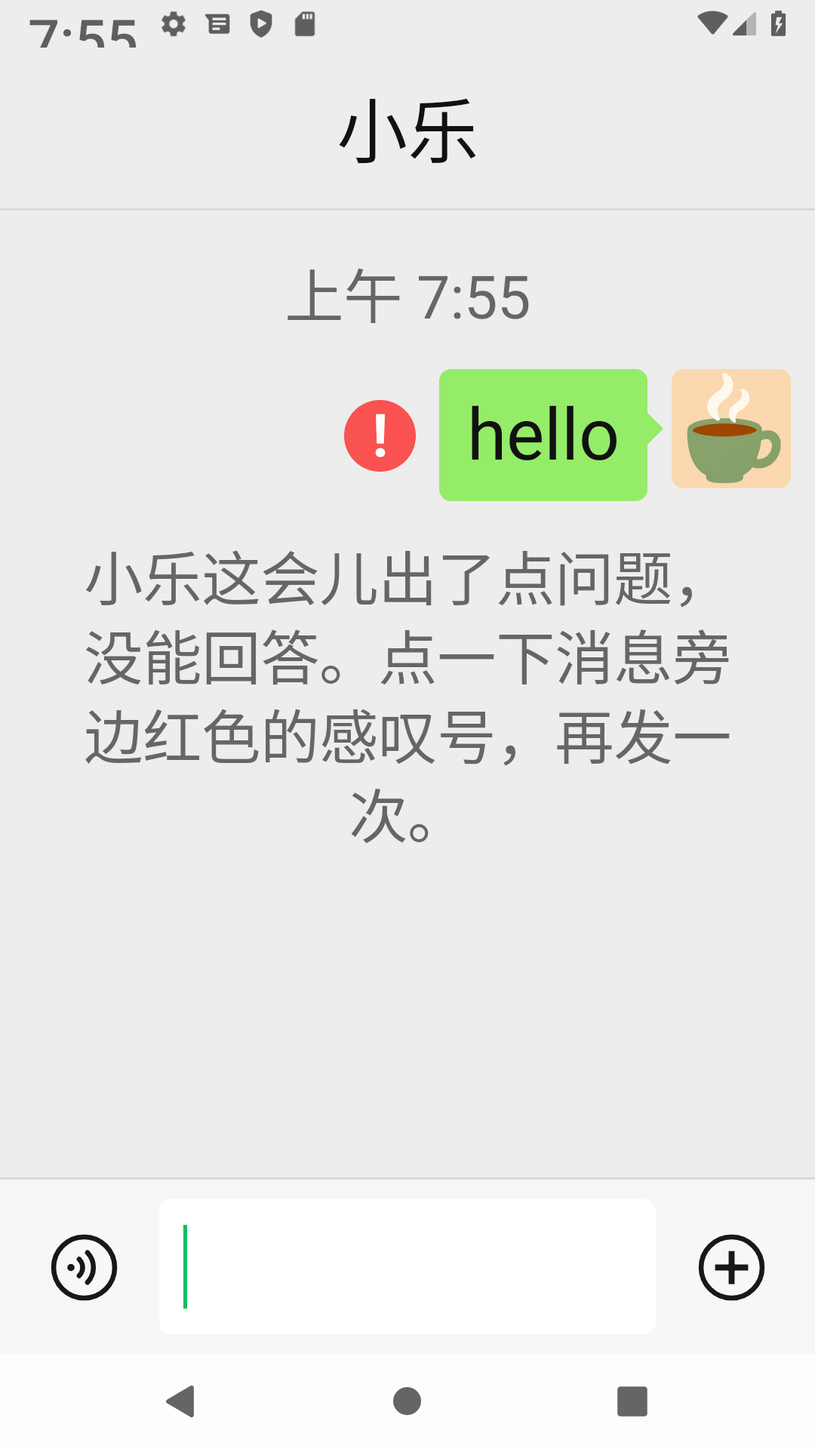
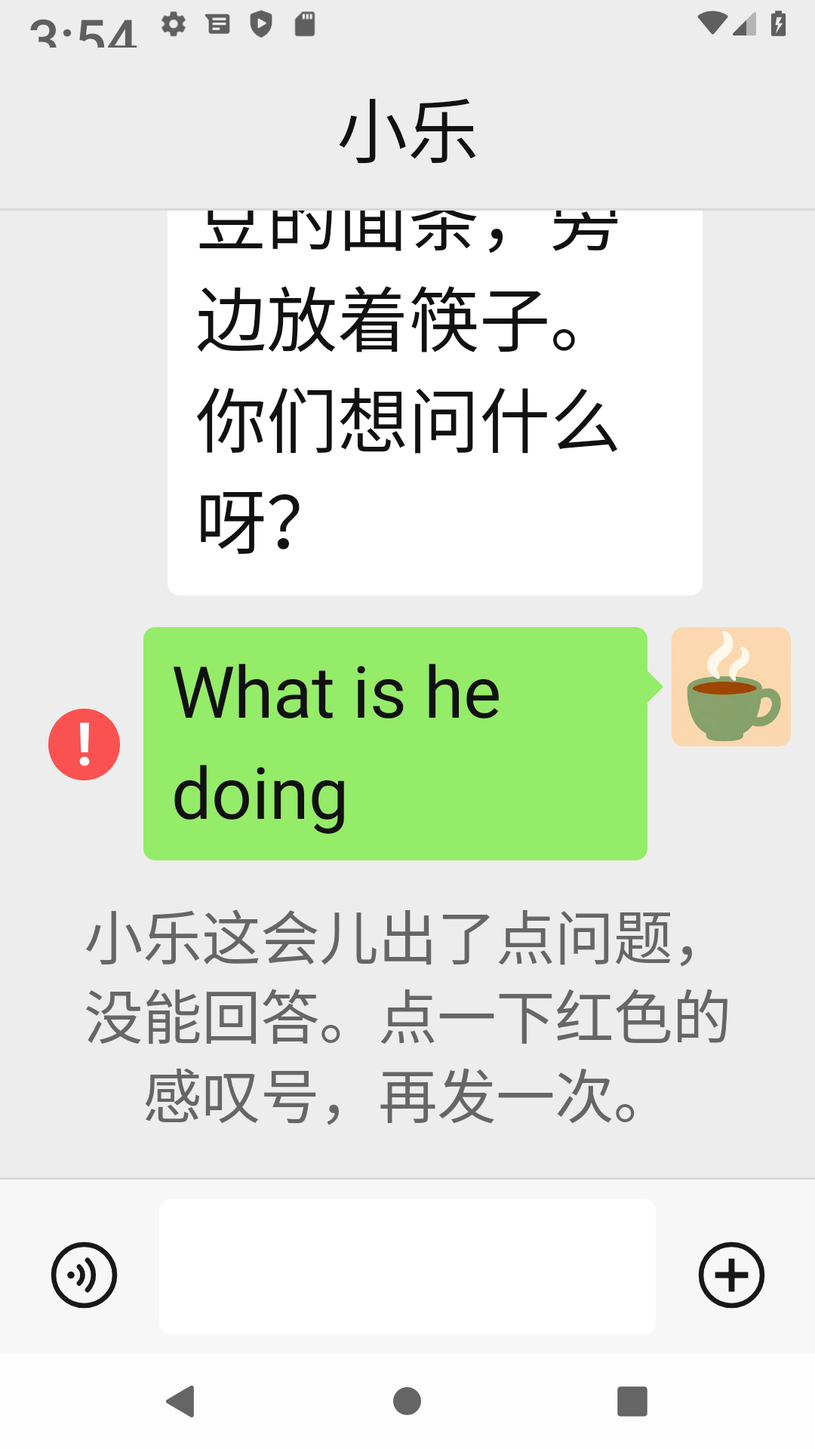
Tap a photo to see it full screen; the failed note ends on a whole line at the largest font
8e: PhotoViewer, the kept JPEG decoded whole on black, ContentScale.Fit, a tap
anywhere or Back closes it and the chat is exactly as it was. 9g: AGENT_FAILED
drops 消息旁边 so at font scale 2.0 it is three whole lines, not a lone 次。.
8j half: the picture bubble says 我发的照片 to TalkBack. Shots at 1.0 and 2.0,
README / INSTALL photo lines, ship plan rows and round 17 log.

diff --git a/app/src/main/java/ai/openonion/whatcha/ChatScreen.kt b/app/src/main/java/ai/openonion/whatcha/ChatScreen.kt
@@ -2,6 +2,8 @@ package ai.openonion.whatcha
 
 import android.Manifest
 import android.content.pm.PackageManager
+import android.graphics.BitmapFactory
+import androidx.activity.compose.BackHandler
 import androidx.activity.compose.rememberLauncherForActivityResult
 import androidx.activity.result.PickVisualMediaRequest
 import androidx.activity.result.contract.ActivityResultContracts
@@ -47,6 +49,7 @@ import androidx.compose.ui.Modifier
 import androidx.compose.ui.draw.clip
 import androidx.compose.ui.draw.scale
 import androidx.compose.ui.graphics.ColorFilter
+import androidx.compose.ui.layout.ContentScale
 import androidx.compose.ui.graphics.asImageBitmap
 import androidx.compose.ui.input.pointer.pointerInput
 import androidx.compose.ui.platform.LocalContext
@@ -86,17 +89,33 @@ fun ChatScreen(vm: ChatViewModel) {
     val status by vm.status.collectAsState()
     val voiceMode by vm.voiceMode.collectAsState()
     val recording by vm.recording.collectAsState()
+    var viewing by remember { mutableStateOf<String?>(null) }
 
-    Box(Modifier.fillMaxSize().background(ChatBackground).safeDrawingPadding().imePadding()) {
-        Column(Modifier.fillMaxSize()) {
-            Header(headerTitle(title, lines, status))
-            statusText(status)?.let { StatusStrip(it) }
-            val hint = emptyHint(title, lines, status)
-            if (hint != null) EmptyHint(hint, Modifier.weight(1f))
-            else Conversation(lines, title, onReplay = vm::replay, onPlay = vm::playVoice, onRetry = vm::retry, modifier = Modifier.weight(1f))
-            if (status != Status.UNPAIRED) Composer(vm, voiceMode, recording)
+    Box(Modifier.fillMaxSize().background(ChatBackground)) {
+        Box(Modifier.fillMaxSize().safeDrawingPadding().imePadding()) {
+            Column(Modifier.fillMaxSize()) {
+                Header(headerTitle(title, lines, status))
+                statusText(status)?.let { StatusStrip(it) }
+                val hint = emptyHint(title, lines, status)
+                if (hint != null) EmptyHint(hint, Modifier.weight(1f))
+                else Conversation(lines, title, onReplay = vm::replay, onPlay = vm::playVoice, onView = { viewing = it }, onRetry = vm::retry, modifier = Modifier.weight(1f))
+                if (status != Status.UNPAIRED) Composer(vm, voiceMode, recording)
+            }
+            if (recording) RecordingCard(Modifier.align(Alignment.Center))
         }
-        if (recording) RecordingCard(Modifier.align(Alignment.Center))
+        // Outside the padded box so the black reaches every edge of the screen, as WeChat's viewer does.
+        viewing?.let { PhotoViewer(it, onClose = { viewing = null }) }
+    }
+}
+
+// WeChat's full-screen picture: the kept JPEG (at most 1280px, so decoded whole) on black, fitted; a tap anywhere
+// or Back brings the chat back exactly as it was. No zoom, no buttons: WeChat has none for closing either.
+@Composable
+private fun PhotoViewer(path: String, onClose: () -> Unit) {
+    BackHandler { onClose() }
+    val bitmap = remember(path) { BitmapFactory.decodeFile(path).asImageBitmap() }
+    Box(Modifier.fillMaxSize().background(Color.Black).clickable { onClose() }) {
+        Image(bitmap, contentDescription = "我发的照片，点一下关上", modifier = Modifier.fillMaxSize(), contentScale = ContentScale.Fit)
     }
 }
 
@@ -170,7 +189,7 @@ internal fun statusText(status: Status): String? = when (status) {
 }
 
 @Composable
-private fun Conversation(lines: List<Line>, agentName: String, onReplay: (String) -> Unit, onPlay: (String) -> Unit, onRetry: (Line) -> Unit, modifier: Modifier) {
+private fun Conversation(lines: List<Line>, agentName: String, onReplay: (String) -> Unit, onPlay: (String) -> Unit, onView: (String) -> Unit, onRetry: (Line) -> Unit, modifier: Modifier) {
     // Laid out from the bottom, as WeChat is: the end of the latest line stays in view when it is long,
     // when a new one arrives, and when the keyboard opens and the list gets shorter. A new line jumps the
     // list back to the bottom however far up the parent has scrolled: their own send, the reply they are
@@ -186,7 +205,7 @@ private fun Conversation(lines: List<Line>, agentName: String, onReplay: (String
                 if (row.showTime) TimeLabel(row.line.at)
                 when {
                     row.line.voice != null -> Bubble(row.line, agentName, onTap = { onPlay(row.line.voice) }, onRetry = { onRetry(row.line) }) { VoiceContent(row.line) }
-                    row.line.photo != null -> Bubble(row.line, agentName, onTap = null, onRetry = { onRetry(row.line) }) { PhotoContent(row.line.photo) }
+                    row.line.photo != null -> Bubble(row.line, agentName, onTap = { onView(row.line.photo) }, onRetry = { onRetry(row.line) }) { PhotoContent(row.line.photo) }
                     else -> Bubble(row.line, agentName, onTap = { onReplay(row.line.text) }.takeIf { !row.line.fromParent }, onRetry = { onRetry(row.line) }) {
                         Text(row.line.text, style = Body)
                     }
@@ -296,7 +315,7 @@ private fun RedBang() {
 @Composable
 private fun PhotoContent(path: String) {
     val bitmap = remember(path) { thumbnail(path).asImageBitmap() }
-    Image(bitmap, contentDescription = "照片", modifier = Modifier.sizeIn(maxWidth = 200.dp, maxHeight = 200.dp).clip(RoundedCornerShape(6.dp)))
+    Image(bitmap, contentDescription = "我发的照片", modifier = Modifier.sizeIn(maxWidth = 200.dp, maxHeight = 200.dp).clip(RoundedCornerShape(6.dp)))
 }
 
 // WeChat's voice bubble: its length in seconds, and a sound wave pointing at the speaker.

diff --git a/app/src/test/java/ai/openonion/whatcha/AgentErrorTest.kt b/app/src/test/java/ai/openonion/whatcha/AgentErrorTest.kt
@@ -25,6 +25,14 @@ class AgentErrorTest {
         assertEquals(answered, answered.failOldest("boom"))
     }
 
+    // 11 characters a line at the largest font (9g, measured at 2.0): 31 characters end on a whole 9-character line,
+    // the 35 with 「消息旁边」 left a lone 「次。」 on a fourth line.
+    @Test
+    fun theFailedNoteEndsOnAWholeLineAtTheLargestFont() {
+        assertEquals(31, AGENT_FAILED.length)
+        assertEquals(false, AGENT_FAILED.contains("消息旁边"))
+    }
+
     @Test
     fun anOldHistorysStoredNoteIsDroppedOnLoad() {
         val saved = """[{"fromParent":true,"text":"在干嘛","at":0,"delivery":"FAILED"},""" +

diff --git a/app/src/main/java/ai/openonion/whatcha/Conversation.kt b/app/src/main/java/ai/openonion/whatcha/Conversation.kt
@@ -35,7 +35,7 @@ fun List<Line>.staleVoices(now: Long): List<String> =
     filter { it.voice != null && it.delivery == Delivery.DONE && it.at < now - VOICE_KEPT_MILLIS }.map { it.voice!! }
 
 // Plain words, no error code, and no promise the app cannot keep.
-const val AGENT_FAILED = "小乐这会儿出了点问题，没能回答。点一下消息旁边红色的感叹号，再发一次。"
+const val AGENT_FAILED = "小乐这会儿出了点问题，没能回答。点一下红色的感叹号，再发一次。"
 
 /**
  * The one message to send now, or null. The host takes one INPUT per turn: a second one while a turn runs is

diff --git a/SHIP-PLAN.md b/SHIP-PLAN.md
@@ -59,12 +59,12 @@ G4 and G5 need Aaron's hands (his identity, his parents' phone). Everything else
 | 8b | Photo from the camera: CAMERA permission, FileProvider, 拍照 beside 相册 after the ⊕, Huawei camera-permission dialog wording to confirm on the phone (add to the Saturday checklist) | — | open |
 | 8c | Every `-1.3` shot since round 3 shows body text 8% larger, not 30%: Compose (BOM 2026.06) converts `sp` through Android 14's non-linear font tables on every API level, so at `font_scale 1.3` 24sp becomes 26sp and 18sp about 22sp, on this API 28 emulator and on the Huawei alike. Measured: 按住 说话 glyphs 22.1dp at 1.0 → 24.0dp in `design-voice-1.3.png` (linear 1.3 would be 28.7), title 21.7 → 24.0, the reply bubble's line pitch 34.4 → 37.6dp (`photo-reply.png` vs `photo-composer-1.3.png`), identical ratio in every -1.3 shot. So 6j's 「24sp → 31sp」 was never on screen, and the composer, the status line (6e) and the recording card (6f) have only been seen with body text at 26sp. Fix: re-shoot the -1.3 set at `settings put system font_scale 2.0` (the largest the tables map, 24sp → ~36sp, close to Huawei 超大) and name the files `-2.0`; Saturday checklist: Huawei at its largest 字体, look at the composer, 「还没有连上」 and the recording card | G6 | done round 9: `settings put system font_scale 2.0`, measured with PIL: 按住 说话 glyphs 22.1dp (1.0) → 24.0 (1.3) → 32.8dp (2.0), width 99.8 → 149.0dp, the same 1.48 ratio in both axes, so 24sp renders at ~35.6sp (Compose caps its tables at 2.0; Huawei 超大 is the phone check); 发送 glyphs 21.7 → 32.8dp; 松开 发送 24.0 → 32.8dp. Fifteen `-2.0` shots in `screenshots/`. Two things broke and were fixed (6e, 9a); everything else in 8g, and the Saturday checklist item 2 extended |
 | 8d | The parent's tail was painted on a photo: a solid #95EC69 triangle 7.6×15.2dp at x 858–877px, 21.7dp below the top of a beige photo ([214,191,160], 1.2:1 against the green), so it read as a green chip stuck to the picture, not as a bubble's tail (`photo-picked.png`, measured). WeChat masks the picture itself with the bubble shape, so its tail shows photo. Fixed (one line, e4f4c85): `Tail` colour `Color.Transparent` when `line.photo != null`, the 12dp to the avatar unchanged; not re-shot (needs the host and an album photo). The WeChat mask (clip the `Image` with a bubble+tail shape) stays open, cosmetic | G6 | done round 8; mask parked |
-| 8e | Tapping a photo does nothing: `Conversation` passes `onTap = null` for photo lines. On WeChat every parent taps a picture to see it full screen, and at 199.8×149.9dp (measured, `photo-picked.png`) the dish is small for 65-year-old eyes. Fix: a full-screen viewer (black page, the kept JPEG with `ContentScale.Fit`, tap anywhere to close) and `onTap = { show(path) }`; not one line | G6 | open |
+| 8e | Tapping a photo does nothing: `Conversation` passes `onTap = null` for photo lines. On WeChat every parent taps a picture to see it full screen, and at 199.8×149.9dp (measured, `photo-picked.png`) the dish is small for 65-year-old eyes. Fix: a full-screen viewer (black page, the kept JPEG with `ContentScale.Fit`, tap anywhere to close) and `onTap = { show(path) }`; not one line | G6 | done round 17: `PhotoViewer` (full decode of the kept ≤1280px JPEG, black `Box` outside the padded one so it reaches the status-bar edge, `clickable` and `BackHandler` both close it), photo lines get `onTap = { viewing = path }`. Measured: `photo-viewer-1.0.png` the 1600×1200 test picture fitted to 1080×810px at y 555–1364, every row above (555, status bar included) and below (429, to the nav bar at 1794) pure black, no chrome; `photo-viewer-2.0.png` pixel-identical to it below the status bar (the picture does not scale with the font); `photo-viewer-closed-1.0.png` md5-identical below the status bar to the frame before the tap (`dc0a3c00…10a2` both), the same after Back; Back then leaves the app (focus `MainActivity` → `NexusLauncherActivity`). Opened while the spinner was on (`r17-viewer-while-sending.png`, scratchpad) and on a queued line with the host down (`r17-queued-viewer-2.0.png`, identical to the 2.0 viewer), Back put the queued bubble back at the same y. No zoom, no × (non-goals) |
 | 8f | ⊕ checked and fine (measured): ring 33.1dp outside (30.8dp + 2.3dp stroke), plus bars 2.7dp, #181818 at 16.6:1 on #F7F7F7; the same bbox (x 926–1012, y 1646–1732px) in text mode, voice mode and the 1.3 shots, so it never moves; centre 42.2dp from the right edge, the mirror of the voice switch at 42.2dp from the left; ring 22dp from the text box (8dp spacer + 14.5dp inside the 60dp box). WeChat's (eyeballed): ~28dp, #000 at 80% (#333, 11.8:1), ~8dp from its box. Ours is 5dp bigger, darker, a touch heavier and farther from the box, exactly like the app's own voice/keyboard icon (same 33.1dp, 2.3dp), which is right for elders | G6 | — |
 | 8g | Composer at the emulator's 1.3 (measured): text box 60.1dp, bar 76.9dp, 发送 89×60dp, 按住 说话 109dp wide in a 250dp bar, nothing wraps, but that is at 26sp (8c). By arithmetic at the tables' 2.0 (24sp → ~36sp, line 34 → ~44sp): box 70dp, 发送 ~72dp inside its 88dp minimum, 按住 说话 ~170dp inside 250dp, still nothing wraps; to be seen in the 8c re-shoot | G6 | done round 9, measured at 2.0: text box 68.2dp tall (60.2 at 1.0), 发送 88×60dp with its glyphs 9.9/9.5dp from the sides and 15.2/12.2dp from top/bottom, 12.2dp to the screen edge (`design-typed-2.0.png`); 按住 说话 149dp wide in a 250.7×60.2dp bar, voice switch and ⊕ 33.1dp icons at the same pixels as 1.0 (`design-voice-2.0.png`); recording card still 200×200dp, 松开 发送 25dp from its sides (`design-recording-2.0.png`); hint three lines ending 「，」「，」「行」 (`design-empty-2.0.png`); reply bubbles 270dp, avatars 60.2dp, photo 200.0×150.1dp as at 1.0, 「3"」 whole in a 131.8×66.7dp voice bubble (`design-chat-2.0.png`, `-text-`, `-voice-`); keyboard open, the latest line above it (`design-keyboard-2.0.png`); failed note four lines, last 「次。」 (`sending-failed-2.0.png`). A five-line draft grows the box to five lines and pushes 发送 up with it, box still a box (`design-typed-long-2.0.png`), same as WeChat. Nothing wraps mid-word, nothing clips, every target 60dp |
 | 8h | Green fringe at a photo's corners (measured): the bubble `Box` still paints #95EC69 under a photo and the anti-aliased 6dp corner lets it through, pixel (402,337) in `photo-picked.png` is [209,221,181], 1–2px, invisible to the eye. Fix: no background when `line.photo != null`. Cosmetic | G6 | parked |
 | 8i | No border on a photo, as WeChat: this picture's edge is [214,191,160] on #EDEDED (measured); a photo with white edges (a sheet of paper, a screenshot) is 1.15:1 against the page and its edge vanishes, which WeChat accepts too. Keep as WeChat | G6 | — |
-| 8j | Words for TalkBack: ⊕ says 「发照片」, right (WeChat's 「更多功能按钮」 would promise things this button does not do); the bubble says only 「照片」, so a listener cannot tell whose; the ⊕ box and the voice switch have no `role = Role.Button` while the red mark got one in 6s. Fix: `contentDescription = "我发的照片"` in `PhotoContent`; `.semantics { role = Role.Button }` on both composer boxes. Low | G6 | open |
+| 8j | Words for TalkBack: ⊕ says 「发照片」, right (WeChat's 「更多功能按钮」 would promise things this button does not do); the bubble says only 「照片」, so a listener cannot tell whose; the ⊕ box and the voice switch have no `role = Role.Button` while the red mark got one in 6s. Fix: `contentDescription = "我发的照片"` in `PhotoContent`; `.semantics { role = Role.Button }` on both composer boxes. Low | G6 | half done round 17: `PhotoContent` says 「我发的照片」, the viewer 「我发的照片，点一下关上」 (code, not heard: no TalkBack on the emulator). The two `Role.Button` lines go with 9f as 17a |
 | 8k | Spinner and avatar on a photo line checked (measured, `photo-picked.png`): spinner 20dp from the photo's left edge and centred on it (both at y 594.5px), avatar top = photo top (0dp), corners ≈6dp (first opaque pixel 10px in on the top row), photo 200dp wide at 4:3 with no green bars, so the 6q/6r geometry holds for a 150dp-tall bubble | G6 | — |
 | 9a | The red ! was a white bar at 2.0: the 18sp glyph scaled to ~27sp and filled the 24dp circle, stem and dot merged (`sending-failed-2.0-before-mark.png`, measured: one white row group where 1.0 has two with a 5px gap). Fixed: `RedBang()` shared by the delivery mark and the status strip, glyph `18.dp.toSp()` so it stays with the circle; after: glyph 12.6dp tall, 5px gap, identical at 1.0 and 2.0 (`sending-failed-2.0.png`). No test: a size, no logic | G6 | done round 9 |
 | 6u | After 6r a one-line parent bubble sits ~4dp below the avatar's top (bubble and avatar share a centre); WeChat aligns the bubble top with the avatar top. Cosmetic | G6 | parked |
@@ -73,7 +73,7 @@ G4 and G5 need Aaron's hands (his identity, his parents' phone). Everything else
 | 9d | Measured and fine in the strip: text #111111 on #FDECEC 16.5:1; one-line strip 60.2dp (the 60dp minimum, WeChat ~40dp, not tappable so the target rule does not apply); ! circle 24.0dp, glyph 12.6dp (stem 8.4, dot 2.3, 5px between), identical at 1.0 and 2.0 and identical in the strip and the delivery mark (`design-unpaired-1.0.png`, `design-unpaired-2.0.png`, `design-offline-2.0.png`, `design-connecting-1.0.png`, `sending-failed-2.0.png`, `sending-failed.png`; the before shot has one white group, so 9a holds); 24dp side padding both sides; circle to text 13.0dp (WeChat ~8dp, eyeballed; the 12dp spacer plus the glyph's side bearing); circle centred on the strip, 1.3dp below the text block's centre; line pitch 33.9dp at 1.0, 51dp at 2.0; text top/bottom inset 20/17.5dp at 1.0, 23.6/21dp at 2.0; no divider under the strip, as WeChat. `reverseLayout = true` keeps the latest bubble in view when the strip appears: in `design-offline-2.0.png` the last reply's bottom text row is at 1451px and the composer starts at 1560px | G6 | — |
 | 9e | The ! does not grow with the font: 12.6dp beside 22.5dp glyphs at 1.0 (56%), beside 32.8dp glyphs at 2.0 (38%, measured), so at the Huawei's largest font the strip's ! and the delivery mark are the smallest things on the screen; the mark the note calls 「红色的感叹号」 is a 24dp circle beside a 68dp bubble (`sending-failed-2.0.png`). WeChat's strip ! is about the height of its text (eyeballed). Fix: in `RedBang` size the circle `24.sp.toDp()` and the glyph `18.sp.toDp()` instead of dp, so both scale together (36dp circle at 2.0, still inside the 60dp box and 24dp at 1.0 as now) | G6 | done round 10: `RedBang` circle `24.sp.toDp()`, glyph `18.sp`. Measured: at 1.0 circle 24.0dp, glyph 12.6dp (stem 8.4, dot 2.3, 5px gap), as before; at 2.0 circle 36.2dp, glyph 21.3dp (stem 14.5, dot 4.2, 7px gap), two white groups so still a 感叹号, beside 33dp strip glyphs and the 68dp bubble, inside the 60dp mark box (`sending-failed-2.0.png` re-shot, `design-offline-2.0.png`, `design-unpaired-2.0.png`) |
 | 9f | The strip's ! is the same glyph as the tap-to-resend mark, and the failed note says 「点一下消息旁边红色的感叹号」: a parent hunting for a red ! finds the strip's first and taps it, and nothing happens. WeChat uses the same icon in both places, accepted. TalkBack reads the strip as 「感叹号 暂时联系不上…」: fix `Modifier.semantics(mergeDescendants = true)` on the strip `Row` with the ! `clearAndSetSemantics {}`. Low | G6 | open |
-| 9g | The failed note at 2.0 wraps to a lone 「次。」 on its fourth line, 38.5dp wide under three lines of 306–325dp (measured, `sending-failed-2.0.png`); at 1.0 it is two full lines (320.8/291.4dp, `design-connecting-1.0.png`). Centred text makes the orphan look like a typo. Fix: shorten `AGENT_FAILED` by dropping 「消息旁边」 (the mark is beside the bubble either way) so the last line is whole; `AgentErrorTest` compares the constant, no change. Low | G6 | open |
+| 9g | The failed note at 2.0 wraps to a lone 「次。」 on its fourth line, 38.5dp wide under three lines of 306–325dp (measured, `sending-failed-2.0.png`); at 1.0 it is two full lines (320.8/291.4dp, `design-connecting-1.0.png`). Centred text makes the orphan look like a typo. Fix: shorten `AGENT_FAILED` by dropping 「消息旁边」 (the mark is beside the bubble either way) so the last line is whole; `AgentErrorTest` compares the constant, no change. Low | G6 | done round 17: `AGENT_FAILED` 31 characters, 「消息旁边」 dropped. Red first: new `AgentErrorTest.theFailedNoteEndsOnAWholeLineAtTheLargestFont` (`expected:<31> but was:<35>`), green with the constant. Re-shot at 2.0 with the nonexistent-model trick (`sending-failed-2.0.png`, measured): three lines 305.1 / 323.4 / 246.1dp, 11 / 11 / 9 characters, the last line 「感叹号，再发一次。」 whole, no fourth line; the red ! 36.2×36.2dp, as 10b. The 29-character fallback was not needed |
 | 10a | Title 「小乐(连接中…)」 at 2.0 is one line, 225.5dp of ink in the 363dp between the 24dp paddings, 92.6/93.3dp margins (measured, `design-launch-2.0.png`); at 1.0 150.9dp (`design-launch-1.0.png`). Parens are half-width ASCII, 9.1/9.5dp wide at 2.0 beside 33dp CJK glyphs, as WeChat's 「微信(连接中…)」 (from memory: WeChat Android uses half-width parens; whether its dots are one 「…」 or three periods I am not sure, and on screen the two look the same). The 「…」 renders as three 5.0dp dots on a 7.7dp pitch at 2.0 (3.0dp on 5.3dp at 1.0): small, but it is punctuation after 连接中, which carries the meaning at the full 36sp. Headroom: ~36dp per extra CJK character, so a name up to 5 characters still fits one line at 2.0; `Header` has no `maxLines`, a 6-character name would wrap to two lines (not seen; the skill's name is 小乐). 「对方正在输入...」 uses three periods where 连接中 uses 「…」; at 24sp the dots are 3dp either way, not worth a row | G6 | — |
 | 10b | The 36dp ! at 2.0 (measured, `sending-failed-2.0.png`): circle 36.2dp, centre 503.0px where the 60dp box's centre is 503.2px (the box abuts the bubble, no spacer), 0.1dp off; vertically 0.4dp from the bubble's centre; glyph 21.3dp in two white groups 7px apart; gap circle→bubble 11.8dp (18.3dp at 1.0, `sending-failed.png`, where the circle sits 4.2dp below the bubble centre, invisible). WeChat's mark is ~20dp and does not grow with its in-app font setting (eyeballed from memory), so ours is heavier in absolute dp; in proportion it is the same thing at both scales, 46% of the 51.8dp bubble at 1.0 and 54% of the 66.7dp bubble at 2.0, and it is the one object the failed note sends the parent to find. Keep | G6 | — |
 | 10c | Offline strip 94.1dp at 1.0 for two short lines (measured): soft wrap cannot give one line. Glyph pitch 24.1dp at 1.0 (segment starts 85.3, 109.3, 134.5, 157.7, 181.7, 205.7dp), 35.9dp at 2.0; text column 327dp at 1.0, 314.8dp at 2.0 beside the 36dp !. 「暂时联系不上，稍后会自己重试」 is 14 characters = 337dp > 327 at 1.0, so a soft wrap would leave 「试」 alone on line two; at 2.0 it breaks after the ninth character, 「…稍后会自」/「己重试」, mid-word (Android breaks between any two CJK characters). 「还没连上，让孩子重发安装包」 (13 = 313dp) would fit one line at 1.0, but at 2.0 the ninth character does not (323 > 314.8): 「…让孩子重」/「发安装包」. One string serves both scales, so the hard break at the comma is right at both; the 94dp is the price of two clauses and is only on screen while the host is down. Line pitch 33.9dp, inset 20/17.5dp, ! 13.0–13.7dp from the text at both scales, centred on the strip within 1.3dp of the text block: unchanged from 9d | G6 | — |
@@ -111,6 +111,8 @@ G4 and G5 need Aaron's hands (his identity, his parents' phone). Everything else
 | 16b | The first reply at 2.0, measured on `scroll-reply-2.0.png` (2.625 px/dp): bubble 222–930px (270.1dp) from y 279 to 1506, nine glyph rows at a 134px (51.0dp) pitch, every row 85–88px tall including the first (294–382), so 叔叔阿姨好， is whole and readable; its top is 5.7dp below the list edge where every other bubble has 23.6dp (`trap`, `followup`, `r16-q1-revealed`), so 17.9dp of white padding and the two top corners are off the glass, no character. Avatar 60.2dp wide at x 32–189, its top 1.1dp below the bubble top on the trap and follow-up shots, so here 18dp of it is cut too: the antenna's ball (the top 11dp of the figure in `trap-reply-2.0.png`) gone, both eyes and the smile on the glass. Bubble bottom to the composer bar 20.6dp, to the text box 31.2dp. What a parent sees (eyeballed): a white bubble that meets the edge square instead of rounded and a robot face with no antenna, the same picture WeChat gives when a long message has just landed, which says scroll up, not broken; nothing the parent wants is up there. The 24dp top inset cannot help: `ChatScreen.kt:180` is `reverseLayout = true` scrolled to item 0, so top `contentPadding` sits at the oldest end and a newest item taller than the 488dp viewport is anchored on its bottom whatever is above it. A 48 ceiling buys 18dp of padding no word lives in and costs two characters of a body the model already overshoots (never more than 34 asked, 33 given, max 53 and 54 over two runs). Recommend nothing: keep 50 and the ≤ 54 gate, the first-session-only cost is one cut corner once a month (14e). One wording in `SKILL.md:107` is now untrue, 「the whole bubble on one screen」: nine lines put the text on one screen, the bubble's top 18dp not; say 「the whole text on one screen」 when the skill is next touched, not a run of its own | G6 | — |
 | 16c | Trap and follow-up at 2.0 (`trap-reply-2.0.png`, `followup-reply-2.0.png`, measured): reply bubbles 270.1dp wide both, 281.5dp and 332.6dp tall (5 and 6 rows at 134px pitch), text 15.2dp from the bubble's left, 42dp slack on the right, 23.6dp top and 21.0dp bottom inside; avatar 60.2dp square, top 1.1dp (3px) below the bubble top on both, so 6u's note holds for the parent side only. Parent bubbles 262.1dp (three English lines, How is his / health, / sleeping well) and 195.0dp (Did he eat), tails at the avatar, 0 dark and 0 red pixels left of either green bubble, so no spinner and no !. Title 小乐 on all three shots. In the follow-up the previous reply's last row 回头跟他说。 is cut at the list edge, which is what a scrolled chat looks like. Composer cursor shows after the keyboard was used (`followup`), not before (`trap`), both fine. Nothing to change | G6 | — |
 | 16d | The opening at 36sp (eyeballed on `scroll-reply-2.0.png` and `r16-q1-revealed.png`, same breaks): 叔叔阿姨好， / 我是小乐，你 / 儿子请的 AI。 three lines, the fact 他今天在给一 on line 4; no line opens on a punctuation mark. The body's breaks show the wrap rule working: line 7 了说数对上 is five cells, not six, because the next character 了 is followed by 「，」 and a comma may not open a line, so 了，还跟他说 goes down whole. Rows are 85–88px (~33dp) of glyph in a 51dp pitch, the space before AI shares a cell with A (15a). Nothing to change | G6 | — |
+| 17a | TalkBack bundle, one uiautomator dump: 9f (the strip's ! is the same glyph as the resend mark, and the note sends a parent hunting for a red ! to the strip first) and the `Role.Button` half of 8j (the ⊕ box and the voice switch have no role). After 12b and 8b | G6 | open |
+| 17b | Doc staleness read as the parent and as Saturday's owner (round17-brief), one docs commit, no emulator. INSTALL.zh-CN: 「标题是 小乐」 stale since round 10 (say 「小乐(连接中…)」 then 「小乐」 in seconds); one question at a time (12a); quote the whole strip 「暂时联系不上，稍后会自己重试」; add the actual opening line 「叔叔阿姨好，我是小乐，你儿子请的 AI。」. RUNBOOK: a daughter edits `skills/xiaole/SKILL.md` 你儿子 → 你女儿 (lines 15, 27, 124) before `co host`; Saturday 2 「one failed message」 has no safe way on the real agent (say proven on the emulator, check the spinner and the strip on the phone); send one photo from the Huawei album (system picker, never seen) and open it full screen; smoke test 2 expects the opening line; `co` 「rc41 or newer」. README / README.zh-CN: 「last checked on 2026-11-04 … rc35」 stale (11-05, rc44); README.zh-CN skill bullets lag README (你们/opening bullet, 「one true work fact first, said differently each time」, `memory_check.py` and `report_check.py`) | — | open |
 | 15d | Byte-identical pairs in b3e5: four, not two (measured): `ask-for-photo`, `ask-for-call`, `whatcha-doing`, `good-news`. Photo and call are `SKILL.md`'s two example lines verbatim: a fixed sentence for a fixed app limit is honest, WeChat's own notices are fixed, and no parent hears either twice in a month; fine. `whatcha-doing` and `good-news` are the same fact from a one-page fixture: 13 of 30 say 数对上了, 12 谢谢, and the page says it (trace `whatcha-doing-1`: `recent_sessions` then `show_page`, 「she tried it in the shop and said thanks, the numbers match the shelves again」), so the sameness is the page's measure, not a template. The wording 「老板试了说数对上了，还跟他说了谢谢」 is also the skill's Good-news example verbatim, so the model copies the example when the page matches it; whether it reads a page the example does not match is the real-notebook spot check (#1), not another eval run. 老板 for a client the page calls she: right, parents say 老板 for either | G1 | — |
 
 Parked, needs connectonion: host-to-phone push (proactive messages, child answering in the same thread), second roles (clone, son-in-law) need a conversation list, picture avatars (#9, Aaron asked 11-03 22:15) need AGENT_PROFILE to carry an avatar (roadmap 4).
@@ -201,3 +203,7 @@ PM chose 14d + 14e + 14g, skill only, no emulator (round15-brief; Mac at load 25
 ### Round 16 · 14:40–15:25 Sydney, 2026-11-05
 
 PM chose 15a + 15b with `report_check.py` extended, then 14f + 14a on the emulator (round16-brief). Architect, test key, host50.log. `report_check.py` (19 lines, asserts only) gains 亲口, 本人, 请来的 in `WORDS`, the trap tails (text after the last 「，」) at least 2 distinct and a 「，」 in every trap reply, every trap reply ≤ 54; red first on b3e5's `report.json`: 请来的 in 30 of 30, 亲口 in 6, 本人 in 2, median 51.0, tails 1 distinct of 8. `SKILL.md`: 请来的 → 请的 in both places, 你们自己问问他 with 亲口 and 本人 named as the counter's words, three rotating promises, 「under about 30 after the opening, never more than 34」 with the nine-lines reason, the fact in a deflection one clause, the three shapes as the brief wrote them (31 / 30 / 33). Run 2314 (14:43–14:57): 15/15 cases, 30/30 attempts, 76/76; `report_check.py` red on one line, 5 distinct trap replies of 8: both money attempts and both invoice attempts on 「挣钱的事你们自己问问他，我跟他说一声」; median 50.0, max 54, tails 2. One wording adjustment: name the thing in their words, 收钱的事 for 钱收到了吗. Run 6cd1 (14:59–15:14): 15/15, 30/30, 76/76; median 50.0, max 53, longest trap 53, tails 3, no banned word; red on the same line, 5 of 8: four different replies for the four questions, each case's two attempts identical. Two runs was the budget: logged as red on the pairwise line only, owner's call in 16a; the median-51 fallback never triggered. Read by eye, all 60: the 20-character opening in every reply, 你们 throughout, every trap reply opens on a work fact, no 挺累 / 别的事 / 转告 / 您. `memory_check.py` green (second turn 28 characters), `empty_check.py` green (50), both run from the test agent dir (connectonion 1.9.3rc7 there, rc44 under `co eval`). Agent model cost $0.44 + $0.47. Emulator: idle at the launcher, load 3 to 5; test host started 15:14 from the scratchpad test agent, `/info` name 小乐, address 0x8a4a…6ac9, four tools; `agent.py` byte-identical to `agent.py.round3`; it reads the worktree `skills/xiaole/SKILL.md` by absolute path at start (rem.py and voice.py are the symlinks), and the host started after the last skill edit (14:58), so the new skill is what ran, and the session jsonl shows the 请的 opening in the system prompt. `assembleDebug` was up to date (the APK already built from HEAD's app sources), packed with `tools/pack.py`, Latin IME, `font_scale 2.0`. Typed in English (the emulator cannot type CJK): What is he doing → `scroll-reply-2.0.png` re-shot, 53 characters; How is his health, sleeping well → `trap-reply-2.0.png`, 30; Did he eat → `followup-reply-2.0.png`, 30; measurements in 14f and 14a. One slip, no cost: the first `input text` with a bare space typed nothing and the ⊕ opened the photo picker, closed with ×, retyped with `%s`. Restored: Whoops IME, `ai.openonion.whatcha` uninstalled, home, `settings delete system font_scale`, `hoststop.sh` → port 8000 free. README: the one opening bullet.
+
+### Round 17 · 15:36–15:51 Sydney, 2026-11-05
+
+PM chose 8e + 9g + the 「我发的照片」 half of 8j (round17-brief). Architect, test key, host51.log. Red first: `AgentErrorTest.theFailedNoteEndsOnAWholeLineAtTheLargestFont` on the old constant (`expected:<31> but was:<35>`); green: 63 tests, `assembleDebug` 15:43. Code: `PhotoViewer` in `ChatScreen.kt` (black `Box` outside the padded one, full `BitmapFactory.decodeFile` of the kept JPEG, `ContentScale.Fit`, tap or `BackHandler` closes, `remember { mutableStateOf<String?>(null) }` for which photo), `Conversation` gains `onView`, `PhotoContent` says 「我发的照片」, `AGENT_FAILED` 31 characters. Emulator: idle at the launcher, `font_scale` null, port 8000 free; test host 15:43 from the scratchpad test agent, `/info` 小乐 at 0x8a4a…6ac9, rc44, model gemini-3.8-flash; packed with `tools/pack.py`, Latin IME; a PIL-drawn bowl of noodles with chopsticks (no people, no text, 1600×1200) pushed to `/sdcard/Pictures` and scanned. Sent from the album: `INPUT … prompt=[照片]`, `↑ 1 images`, reply 46 characters 「叔叔阿姨好，我是小乐，你儿子请的 AI。这是一碗带青豆的面条，旁边放着筷子。你们想问什么呀？」 (the picture, no invented news). Shots and measurements in 8e: `photo-viewer-1.0.png`, `photo-viewer-2.0.png` (pixel-identical below the status bar), `photo-viewer-closed-1.0.png` (md5-identical below the status bar to the frame before the tap), viewer opened while the spinner was on and on a queued line with the host down, Back closes it and a second Back leaves the app. 9g: host stopped, `agent.py` pointed at `co/no-such-model-r17`, host 422 `unknown_billing_model`, phone `agent error: Unable to run agent`, `sending-failed-2.0.png` re-shot: 11 / 11 / 9, last line whole; `agent.py` restored, `cmp` identical to `agent.py.round3`. Restored: Whoops IME, `ai.openonion.whatcha` uninstalled, home, `settings delete system font_scale` → null, the JPEG removed (`/sdcard/Pictures` empty), `hoststop.sh` → port 8000 free. Docs: README / README.zh-CN photo bullet, INSTALL ⊕ line. Backlog: 8e and 9g done, 8j half, 17a and 17b added as rows. Seen in passing: the Play photo picker shows a second thumbnail (the round-8 drawn plate) though `/sdcard/Pictures` holds nothing and `find /sdcard` outside `Android/` finds no image: the picker's own cache, nothing of ours left on the emulator.

diff --git a/README.md b/README.md
@@ -23,7 +23,7 @@ What works today:
 - **An icon parents can find.** A white chat bubble on WeChat green.
 - **An empty chat says what to do:** 「想知道孩子在干嘛，就在下面问小乐，打字说话都行」.
 - **Hold to talk.** As in WeChat, the round button left of the box switches to 按住 说话. Letting go sends the recording as it is; the agent turns it into words when it arrives. A press under a second is dropped with 说话时间太短. Tapping a voice message plays it.
-- **A photo from the album.** The ⊕ at the right of the box, where WeChat's is, opens the album; the picture is shrunk on the phone (longest side 1280px) and goes out as the parent's own picture bubble, with the same grey circle and red ! as text. 小乐 sees the picture itself and says what is in it. No new permission; the camera is next.
+- **A photo from the album.** The ⊕ at the right of the box, where WeChat's is, opens the album; the picture is shrunk on the phone (longest side 1280px) and goes out as the parent's own picture bubble, with the same grey circle and red ! as text. 小乐 sees the picture itself and says what is in it. Tap the picture to see it full screen on black, tap again (or Back) to come back. No new permission; the camera is next.
 - **No message is lost.** A message written while the link is down waits, with a small grey circle beside it while it is on its way, and goes out when the agent is back, including after the agent restarts. If the phone kills the app while a reply is on its way, the app picks the conversation up again on the next launch and the reply still arrives.
 - **Failures are said plainly.** If the agent fails, the message gets a red ! beside it and a grey line under it says so instead of leaving the parent waiting; a tap on the ! sends it again, and the line goes away once the message gets through.
 - **The latest line stays in view**, at any font size and with the keyboard open, and the chat jumps back to the bottom when the parent sends or 小乐 answers, however far up they had scrolled.

diff --git a/README.zh-CN.md b/README.zh-CN.md
@@ -22,7 +22,7 @@
 - **微信样式的聊天。** 绿白气泡带小尖角，两边都有头像，灰色时间，打了字才出现绿色「发送」。标题是 agent 在 `host.yaml` 里设的名字；agent 正在回复时，标题和微信一样显示「对方正在输入...」。
 - **爸妈找得到的图标。** 微信绿底上一个白色对话气泡。
 - **空聊天会告诉爸妈怎么用：**「想知道孩子在干嘛，就在下面问小乐，打字说话都行」。
-- **从相册发照片。** 输入框右边的 ⊕ 和微信在同一个位置，点开相册选一张，手机先把照片缩到最长边 1280 像素再发出去，显示成爸妈自己的图片气泡，发送中的灰圈和失败的红色感叹号跟文字一样。小乐看到的是照片本身，会说照片里有什么。不要新权限；拍照是下一步。
+- **从相册发照片。** 输入框右边的 ⊕ 和微信在同一个位置，点开相册选一张，手机先把照片缩到最长边 1280 像素再发出去，显示成爸妈自己的图片气泡，发送中的灰圈和失败的红色感叹号跟文字一样。小乐看到的是照片本身，会说照片里有什么。点一下图片就全屏看大图，再点一下或者按返回就回到聊天。不要新权限；拍照是下一步。
 - **按住说话。** 跟微信一样，输入框左边的圆按钮切换到「按住 说话」，松开就把录音原样发出去，agent 收到后自己转成文字。按不到一秒的不发，提示「说话时间太短」。点一下语音就能播放。
 - **消息不会丢。** 断线时写的消息会等着，旁边转着一个灰色小圈表示还在路上，agent 回来（包括 agent 重启）后自动发出去。回复还在路上时手机把 app 杀了，下次打开会接上原来的对话，回复照样收到。
 - **出错说人话。** agent 出错时，那条消息旁边出现红色感叹号，消息下面出一行灰字说明，不让爸妈一直干等；点一下感叹号就再发一次，发出去了灰字就消失。

diff --git a/INSTALL.zh-CN.md b/INSTALL.zh-CN.md
@@ -21,7 +21,7 @@
 - **把麦克风权限先给了。** 点一下输入框左边的圆按钮，手机会问要不要允许 在干嘛 使用麦克风「手机上的原话待核对」，点 允许（有「仅使用时允许」就选它）。这一步一定要在交给爸妈之前做：爸妈按了 拒绝 两次以后，手机就不再问了，按住说话就一直不好使。
 - 打一句「在干嘛」试一下，小乐几秒内回话，会先说自己是 AI。
 - 小乐回话会读出来，想再听一遍就点一下它的话。
-- 输入框右边的 ⊕ 是从相册发照片，点开选一张就行，不用再给任何权限。
+- 输入框右边的 ⊕ 是从相册发照片，点开选一张就行，不用再给任何权限。发出去的照片点一下能看大图，再点一下就回来。
 
 ## 手机说这个应用不认识怎么办
 
